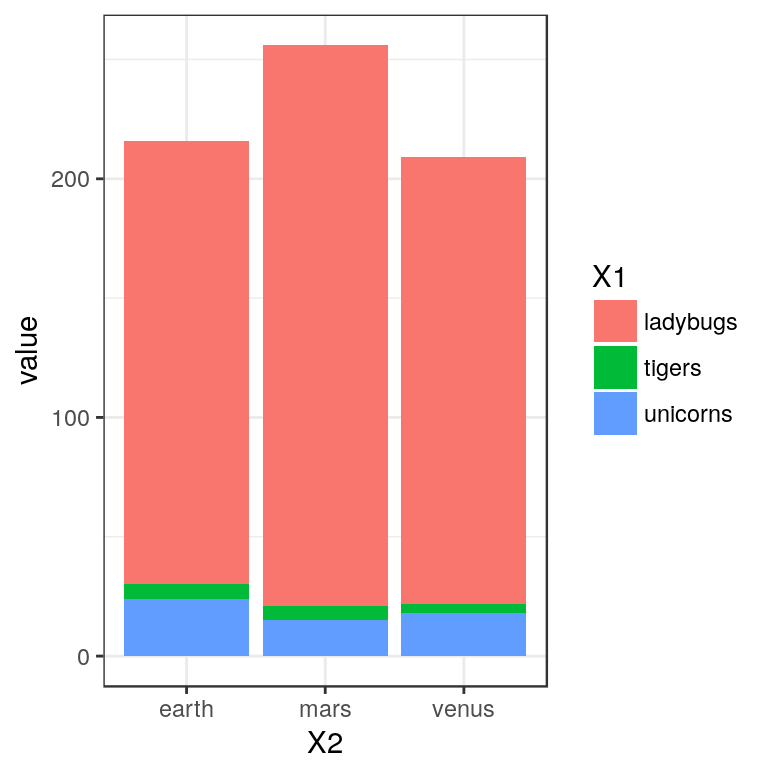
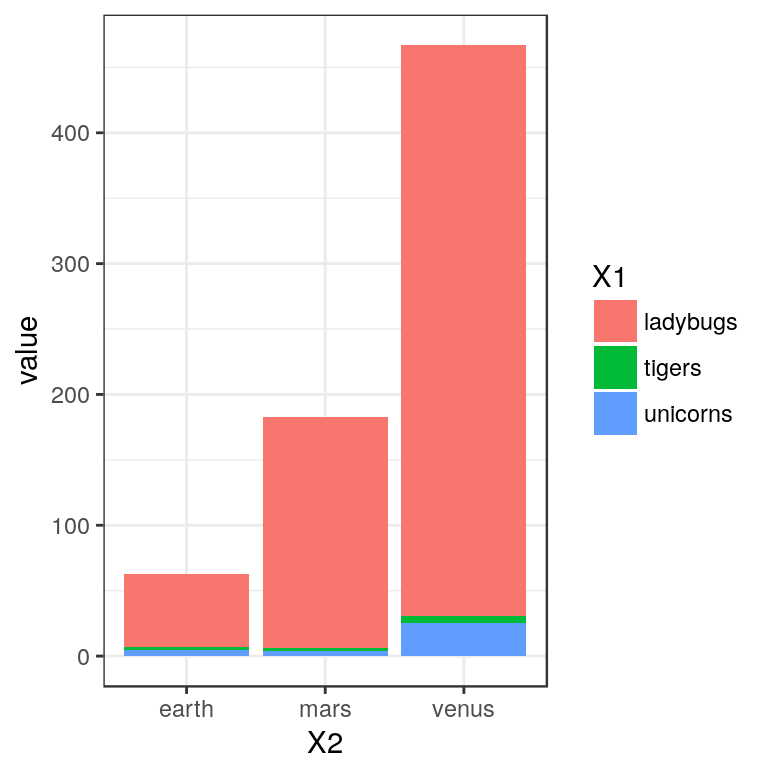
getting used to updating gh-pages

diff --git a/docs/articles/CompoData.html b/docs/articles/CompoData.html
@@ -70,16 +70,19 @@
 <a href="#e-g-in-microbiomes-or-transcriptomes" class="anchor"></a>(e.g. in microbiomes or transcriptomes)</h2>
 <p>Standard analyses of abundance estimates genereated from sequencing treat the generated data as counts. Methods for differential abundance estimation in RNAseq data have probably recieved most attention in this regard (<a href="https://genomebiology.biomedcentral.com/articles/10.1186/s13059-014-0550-8">see e.g. this for one of the current approaches</a>). Many (if not all) of the methods developed for analyses of count data derived from transcriptomes are also applied to amplicon sequencing data. On the other hand techniques from classical community ecolgy are applied on data from transcriptomics or amplicon sequencing alike (mostly after <em>transforming</em> it to count data).</p>
 <p>In the field of amplicon sequencing there are currently concernes that analysis of “compositional data” as counts can introduce biases (<a href="https://www.ncbi.nlm.nih.gov/pmc/articles/PMC5695134/">e.g. reviewd here</a>, refering in its core to <a href="https://www.amazon.de/Statistical-Compositional-Monographs-Statistics-Probability/dp/0412280604">Aitchison, J. (1986)</a>).</p>
-<p>This document aims to give an introduction to the challenges posed by compositional data produced to assess transcriptomes or microbiomes. I will give an “abstract” introduction into:</p>
+<p>This document aims to give an introduction to the challenges that are posed by compositional data produced to assess transcriptomes via RNAseq or microbiomes via amplicon sequencing. I will give an “abstract” introduction into:</p>
 <ol style="list-style-type: decimal">
 <li>pecularities of “compositional count data” from sequencing,</li>
 </ol>
 <p>and show</p>
 <ol start="2" style="list-style-type: decimal">
-<li>how analyses of community ecology (try to) deal with these.</li>
+<li>how analyses of community ecology (try to) deal with these (or not).</li>
 </ol>
-<p>The main purpose is to discuss with the audience how concepts in community ecology and data analyses are affected by the nature of sequencing data.</p>
-<p>It is distributed and “developed” as a package to ease further expansion and contribution</p>
+<p>The main purpose is to discuss with the audience how concepts in community ecology and data analyses are affected by the nature of sequencing data and I want to discuss</p>
+<ol start="3" style="list-style-type: decimal">
+<li>whether it is even conceptually possible to address these issues using generic solutions.</li>
+</ol>
+<p>This is distributed and “developed” as a package to ease further expansion and contribution.</p>
 </div>
 <div id="so-what-is-this-compositional-data" class="section level2">
 <h2 class="hasAnchor">
@@ -106,8 +109,9 @@ countData &lt;-<span class="st"> </span><span class="kw">matrix</span>(<span cla
 <span class="kw">ggplot</span>(<span class="kw"><a href="http://www.rdocumentation.org/packages/reshape/topics/melt-24">melt</a></span>(countData),
        <span class="kw">aes</span>(<span class="dt">x=</span>X2, <span class="dt">y=</span>value, <span class="dt">fill=</span>X1)) +
 <span class="st">    </span><span class="kw">geom_col</span>()</code></pre></div>
-<p><img src="CompoData_files/figure-html/unnamed-chunk-2-1.png" width="384"></p>
-<p>In addition our sampling of the starting molecules usually varies in depth. A usual first step in all analyses is to account for this variation in sampling depths. Standard (presented below) methods don’t consider the compositional nature of sequencing data when dong so.</p>
+<p><img src="CompoData_files/figure-html/unnamed-chunk-1-1.png" width="384"></p>
+<p>These values (given how we simulated them) could now be the actual counts of our animals on those planets. The problem is: when sequencing we don’t know. PCRs in the preparation of libraries (collections of DNA molecules) perserve the relative proportions of different molecules (say those from tigers, unicorns and ladybugs) but provide no information on the number before amplification.</p>
+<p>In addition, our sampling of the finally produced molecules usually varies in depth (that is sequencing depth varies). A usual first step in all analyses is to account for this variation in sampling depths. Standard (presented below) methods don’t consider the compositional nature of sequencing data when dong so.</p>
 <div class="sourceCode"><pre class="sourceCode r"><code class="sourceCode r">depth &lt;-<span class="st"> </span><span class="kw">c</span>(<span class="dv">1</span>, <span class="fl">0.1</span>, <span class="fl">0.5</span>) ## per column (planet) depth
 mu &lt;-<span class="st"> </span><span class="kw">as.matrix</span>(means)%*%<span class="kw">t</span>(<span class="kw">as.matrix</span>(depth))
 
@@ -119,7 +123,7 @@ countData &lt;-<span class="st"> </span><span class="kw">matrix</span>(<span cla
 <span class="kw">ggplot</span>(<span class="kw"><a href="http://www.rdocumentation.org/packages/reshape/topics/melt-24">melt</a></span>(countData),
        <span class="kw">aes</span>(<span class="dt">x=</span>X2, <span class="dt">y=</span>value, <span class="dt">fill=</span>X1)) +
 <span class="st">    </span><span class="kw">geom_col</span>()</code></pre></div>
-<p><img src="CompoData_files/figure-html/unnamed-chunk-3-1.png" width="384"></p>
+<p><img src="CompoData_files/figure-html/unnamed-chunk-2-1.png" width="384"></p>
 </div>
 <div id="scaling-by-totals-1" class="section level2">
 <h2 class="hasAnchor">
@@ -130,12 +134,12 @@ countData &lt;-<span class="st"> </span><span class="kw">matrix</span>(<span cla
 <span class="kw">ggplot</span>(<span class="kw"><a href="http://www.rdocumentation.org/packages/reshape/topics/melt-24">melt</a></span>(<span class="kw">t</span>(<span class="kw">t</span>(countData)*<span class="dv">1</span>/scaling.factor)),
        <span class="kw">aes</span>(<span class="dt">x=</span>X2, <span class="dt">y=</span>value, <span class="dt">fill=</span>X1)) +
 <span class="st">    </span><span class="kw">geom_col</span>()</code></pre></div>
-<p><img src="CompoData_files/figure-html/unnamed-chunk-4-1.png" width="384"></p>
+<p><img src="CompoData_files/figure-html/unnamed-chunk-3-1.png" width="384"></p>
 </div>
 <div id="interlude-a-more-realistic-dataset" class="section level2">
 <h2 class="hasAnchor">
 <a href="#interlude-a-more-realistic-dataset" class="anchor"></a>Interlude: A more realistic dataset</h2>
-<p>We adjust a couple of things in our dataset to make it more realistic:</p>
+<p>We now adjust a couple of things in our dataset to make it more realistic:</p>
 <ol style="list-style-type: decimal">
 <li><p>We add more species (rows, could also be genes in trascriptomics)</p></li>
 <li><p>We add more samples (columns) and also specify them as replicates for our differnt ecosystmes (could be tissues or treatments in transcriptomics)</p></li>
@@ -198,7 +202,8 @@ countData &lt;-<span class="st"> </span>countData[<span class="kw">rowSums</span
          <span class="dt">annotation_col=</span>colData,
          <span class="dt">show_rownames=</span><span class="ot">FALSE</span>,
          <span class="dt">show_colnames=</span><span class="ot">FALSE</span>)</code></pre></div>
-<p><img src="CompoData_files/figure-html/unnamed-chunk-5-1.png" width="384"></p>
+<p><img src="CompoData_files/figure-html/unnamed-chunk-4-1.png" width="384"></p>
+<p>I aimed for a simulation of a dataset which resembles more amplicon sequencing as compred to RNAseq. These datasets are usually sparse, meaning many species have in many samples zero counts. Mean values of a negative binomial distribution for individual species are themselfs normally distributed. These mean values are low but have a high variance. To differenciate the different ecosystems I used differences in the mean which are normally distibuted with a mean of zero.</p>
 </div>
 <div id="scaling-by-totals-2-slightly-more-realistic-data" class="section level2">
 <h2 class="hasAnchor">
@@ -218,8 +223,9 @@ countData.scaled &lt;-<span class="st"> </span><span class="kw">t</span>(<span c
          <span class="dt">annotation_col=</span>colData,
          <span class="dt">show_rownames=</span><span class="ot">FALSE</span>,
          <span class="dt">show_colnames=</span><span class="ot">FALSE</span>)</code></pre></div>
-<p><img src="CompoData_files/figure-html/unnamed-chunk-6-1.png" width="384"><img src="CompoData_files/figure-html/unnamed-chunk-6-2.png" width="384"></p>
-<p>Interestingly, scaleing by totals seems to screw us over here. We did not include sequencing depth differnences in this simulation, so we know we wouldn’t have needed to scale. In real data we don’t know this and we have to correct for the differences in sequencing depths.</p>
+<p><img src="CompoData_files/figure-html/unnamed-chunk-5-1.png" width="384"><img src="CompoData_files/figure-html/unnamed-chunk-5-2.png" width="384"></p>
+<p>This lead to a dataset in which the total number of animals varied a lot. A situation which should be challenging when the data is “normalized”.</p>
+<p>Interestingly, scaleing by totals seems to screw us over here. We did not include sequencing depth differnences in this simulation, so we know we wouldn’t have needed to scale. But annoyingly the sequencing process itself (or to be more exact the PCR) does “scale” for us. In real data we don’t know all of this and we have to correct for the differences in sequencing depths.</p>
 </div>
 <div id="rarefaction" class="section level2">
 <h2 class="hasAnchor">
@@ -257,13 +263,59 @@ richness &lt;-<span class="st"> </span><span class="kw">data.frame</span>(<span 
 <span class="st">    </span><span class="kw">geom_errorbar</span>(<span class="kw">aes</span>(<span class="dt">ymin=</span>richness.mean-richness.sd,
                       <span class="dt">ymax=</span>richness.mean+richness.sd))+
 <span class="st">    </span><span class="kw">facet_wrap</span>(~planet, <span class="dt">scales=</span><span class="st">"free_x"</span>)</code></pre></div>
-<p><img src="CompoData_files/figure-html/unnamed-chunk-7-1.png" width="384"><img src="CompoData_files/figure-html/unnamed-chunk-7-2.png" width="384"></p>
+<p><img src="CompoData_files/figure-html/unnamed-chunk-6-1.png" width="384"><img src="CompoData_files/figure-html/unnamed-chunk-6-2.png" width="384"></p>
 <p>Uh, we are screwed again!</p>
 </div>
 <div id="using-totals-based-scaling-as-offset-for-modelling" class="section level2">
 <h2 class="hasAnchor">
 <a href="#using-totals-based-scaling-as-offset-for-modelling" class="anchor"></a>Using totals based scaling as offset for modelling</h2>
-<p>We will skip this…</p>
+<div class="sourceCode"><pre class="sourceCode r"><code class="sourceCode r"><span class="kw">library</span>(DESeq2)
+
+<span class="kw">mode</span>(countData) &lt;-<span class="st"> "integer"</span>
+
+rowRanges &lt;-<span class="st"> </span><span class="kw">GRanges</span>(<span class="st">"1"</span>, <span class="kw">IRanges</span>(<span class="dt">start =</span> (<span class="dv">1</span>:<span class="kw">nrow</span>(countData) -<span class="st"> </span><span class="dv">1</span>) *<span class="st"> </span><span class="dv">100</span> +<span class="st"> </span><span class="dv">1</span>,
+                                  <span class="dt">width =</span> <span class="dv">100</span>))
+
+dds &lt;-<span class="st"> </span><span class="kw"><a href="http://www.rdocumentation.org/packages/DESeq2/topics/DESeqDataSet">DESeqDataSetFromMatrix</a></span>(<span class="dt">countData =</span> countData, <span class="dt">colData =</span> colData, 
+                              <span class="dt">design =</span> ~planet, <span class="dt">rowRanges =</span> rowRanges,
+                              <span class="dt">ignoreRank =</span> <span class="ot">TRUE</span>)
+
+dds &lt;-<span class="st"> </span><span class="kw"><a href="http://www.rdocumentation.org/packages/DESeq2/topics/estimateSizeFactors">estimateSizeFactors</a></span>(dds, <span class="dt">type=</span><span class="st">"poscounts"</span>)
+
+dds &lt;-<span class="st"> </span><span class="kw"><a href="http://www.rdocumentation.org/packages/DESeq2/topics/estimateDispersions">estimateDispersions</a></span>(dds)
+<span class="co">#&gt; gene-wise dispersion estimates</span>
+<span class="co">#&gt; mean-dispersion relationship</span>
+<span class="co">#&gt; -- note: fitType='parametric', but the dispersion trend was not well captured by the</span>
+<span class="co">#&gt;    function: y = a/x + b, and a local regression fit was automatically substituted.</span>
+<span class="co">#&gt;    specify fitType='local' or 'mean' to avoid this message next time.</span>
+<span class="co">#&gt; final dispersion estimates</span>
+dds &lt;-<span class="st"> </span><span class="kw"><a href="http://www.rdocumentation.org/packages/DESeq2/topics/nbinomLRT">nbinomLRT</a></span>(dds, <span class="dt">reduced=</span> ~<span class="dv">1</span>)
+res.deseq &lt;-<span class="st"> </span><span class="kw"><a href="http://www.rdocumentation.org/packages/DESeq2/topics/results">results</a></span>(dds)
+
+<span class="kw">head</span>(res.deseq[<span class="kw">order</span>(res.deseq$padj), ])
+<span class="co">#&gt; log2 fold change (MLE): planet venus vs earth </span>
+<span class="co">#&gt; LRT p-value: '~ planet' vs '~ 1' </span>
+<span class="co">#&gt; DataFrame with 6 rows and 6 columns</span>
+<span class="co">#&gt;              baseMean log2FoldChange     lfcSE      stat       pvalue</span>
+<span class="co">#&gt;             &lt;numeric&gt;      &lt;numeric&gt; &lt;numeric&gt; &lt;numeric&gt;    &lt;numeric&gt;</span>
+<span class="co">#&gt; species_213 94.702455       5.857367 0.6183568 142.25641 1.286512e-31</span>
+<span class="co">#&gt; species_28   3.072630       4.375525 0.6857651 105.53118 1.213936e-23</span>
+<span class="co">#&gt; species_21   5.300482       3.474154 0.5985473  72.24978 2.047194e-16</span>
+<span class="co">#&gt; species_55   7.374460       3.088628 0.5440076  70.40334 5.153587e-16</span>
+<span class="co">#&gt; species_74   4.125340      -4.206402 0.7922348  65.15906 7.093993e-15</span>
+<span class="co">#&gt; species_237  8.332600       3.240092 0.5555765  64.47082 1.000783e-14</span>
+<span class="co">#&gt;                     padj</span>
+<span class="co">#&gt;                &lt;numeric&gt;</span>
+<span class="co">#&gt; species_213 3.293471e-29</span>
+<span class="co">#&gt; species_28  1.553838e-21</span>
+<span class="co">#&gt; species_21  1.746939e-14</span>
+<span class="co">#&gt; species_55  3.298295e-14</span>
+<span class="co">#&gt; species_74  3.632124e-13</span>
+<span class="co">#&gt; species_237 4.270006e-13</span>
+<span class="kw">table</span>(res.deseq$padj&lt;<span class="fl">0.01</span>)
+<span class="co">#&gt; </span>
+<span class="co">#&gt; FALSE  TRUE </span>
+<span class="co">#&gt;   150   106</span></code></pre></div>
 </div>
 <div id="techniques-acknowleding-compositionality" class="section level2">
 <h2 class="hasAnchor">
@@ -286,10 +338,15 @@ countData.clr &lt;-<span class="st"> </span><span class="kw">apply</span>(countD
 countData.clrP &lt;-<span class="st"> </span><span class="kw"><a href="http://www.rdocumentation.org/packages/ALDEx2/topics/aldex.clr.function-methods">aldex.clr</a></span>(countData,
                             <span class="dt">conds=</span><span class="kw">as.character</span>(colData$planet))
 <span class="co">#&gt; [1] "operating in serial mode"</span>
-<span class="co">#&gt; [1] "computing center with all features"</span></code></pre></div>
+<span class="co">#&gt; [1] "computing center with all features"</span>
+
+res.aldex &lt;-<span class="st"> </span><span class="kw"><a href="http://www.rdocumentation.org/packages/ALDEx2/topics/aldex.glm">aldex.glm</a></span>(countData.clrP, <span class="dt">conditions=</span>colData$planet)
+<span class="co">#&gt; [1] "operating in serial mode"</span>
+<span class="co">#&gt; [1] "running tests for each MC instance:"</span>
+<span class="co">#&gt; |------------(25%)----------(50%)----------(75%)----------|</span></code></pre></div>
 <p><img src="CompoData_files/figure-html/unnamed-chunk-8-1.png" width="384"></p>
 <blockquote>
-<p>“He who gives up [code] safety for [code] speed deserves neither.” (<a href="https://twitter.com/hadleywickham/status/504368538874703872">via</a>)</p>
+<p>To be continued.</p>
 </blockquote>
 </div>
 </div>

diff --git a/docs/index.html b/docs/index.html
@@ -52,19 +52,22 @@
       
       </header><div class="row">
   <div class="contents col-md-9">
-    This package distributes a contribution to the IZW statistics seminar (Concepts and Computation in Ecology and Evolution [2C2E]) for discussion. 
+    
+<p>This package distributes a contribution to the IZW statistics seminar (Concepts and Computation in Ecology and Evolution [2C2E]) for discussion</p>
+<p>For the content of this seminar please go to: <a href="https://derele.github.io/CompoData/articles/CompoData.html" class="uri">https://derele.github.io/CompoData/articles/CompoData.html</a></p>
+<p>To see this content locally</p>
+<div class="sourceCode"><pre class="sourceCode s"><code class="sourceCode gnuassembler">require(devtools)
+<span class="kw">devtools::</span>insatll_github(<span class="st">"derele/CompoData"</span>)
+vignette(<span class="st">"CompoData"</span>)</code></pre></div>
+
   </div>
 
   <div class="col-md-3" id="sidebar">
     <h2>License</h2>
-
+<p><a href="https://www.r-project.org/Licenses/GPL-3">GPL-3</a></p>
 <h2>Developers</h2>
 <ul class="list-unstyled">
 <li>Emanuel Heitlinger <br><small class="roles"> Author, maintainer </small> </li>
-</ul>
-<h2>Dev status</h2>
-<ul class="list-unstyled">
-<li><a href="https://www.r-project.org/Licenses/GPL-3">GPL-3</a></li>
 </ul>
 </div>
 </div>
